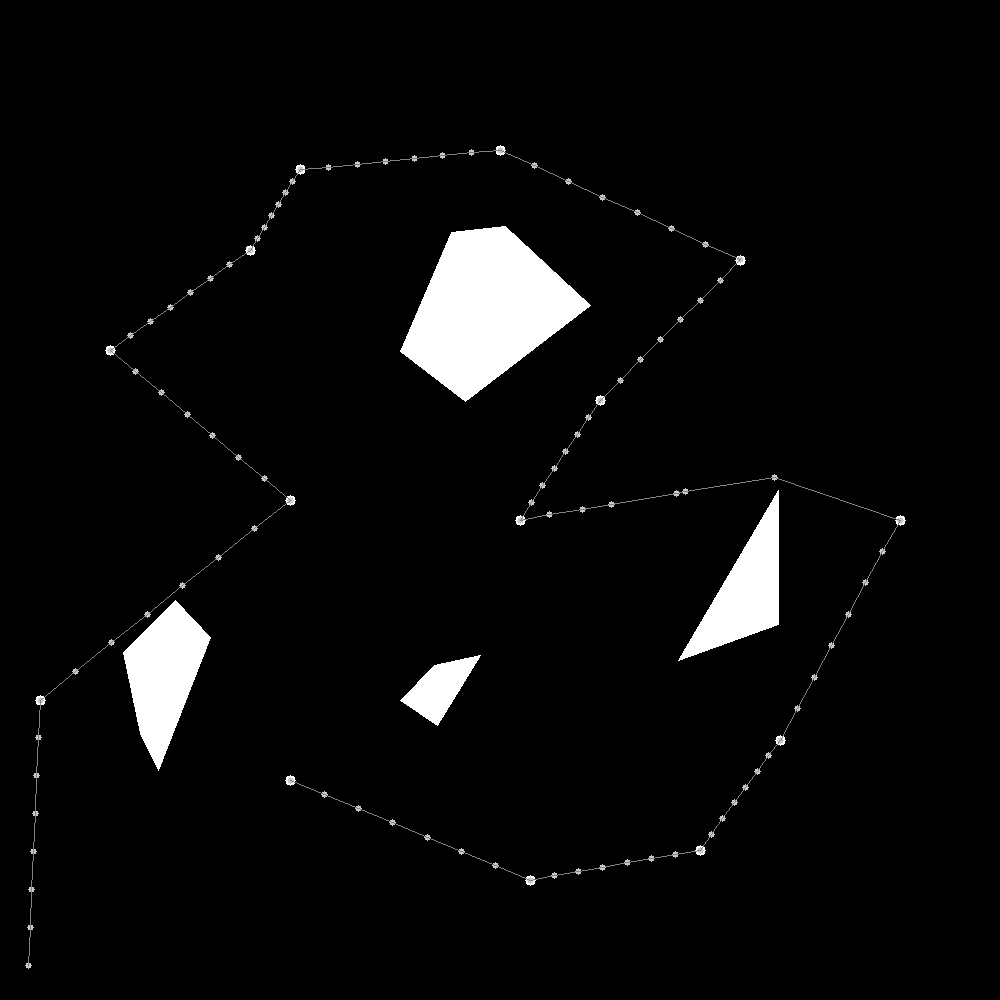
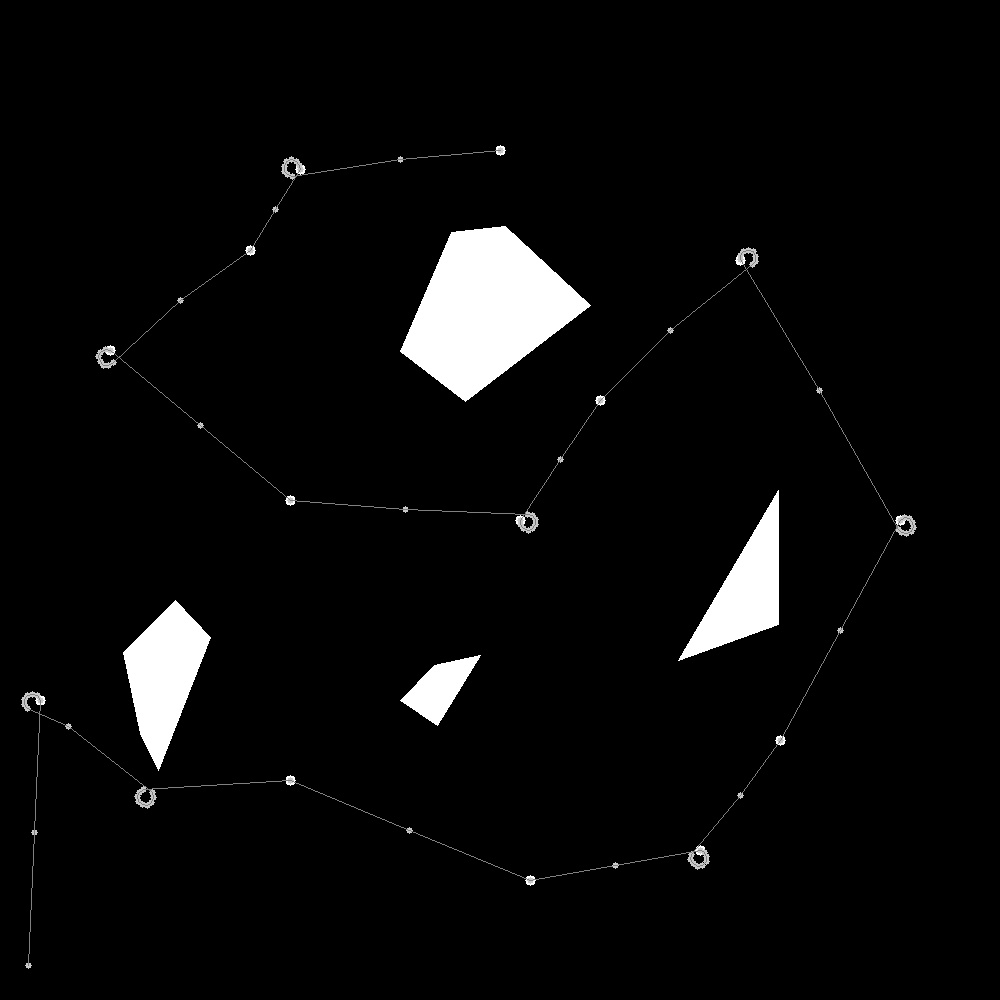
.

diff --git a/solver.py b/solver.py
@@ -1,4 +1,4 @@
-import numpy as np 
+import numpy as np
 import matplotlib.pyplot as plt
 import cv2
 import scipy.optimize as sco
@@ -9,54 +9,53 @@ from python_tsp.exact import solve_tsp_dynamic_programming
 
 
 def visualize(path, ind=None):
-    obstacles = [np.array(  ((1.23,3.47),(1.75,4.00),(2.10,3.63),(1.58,2.30),(1.40,2.67)) ),  
-                          np.array(  ((4.65,5.98),(4.00,6.48),(4.52,7.68),(5.06,7.73),(5.90,6.95)) ),  
-                          np.array(  ((6.78,3.40),(7.78,3.76),(7.78,5.10)) ), 
-                          np.array(  ((4.00,3.00),(4.35,3.35),(4.80,3.45),(4.37,2.75)))  ]
-    rubbishes = np.array((  (0.40,3.00),(2.90,2.20),(1.10,6.50),(2.90,5.00),(3.00,8.30),
-                            (5.20,4.80),(7.40,7.40),(5.30,1.20),(7.80,2.60),(6.00,6.00),
-                            (9.00,4.80),(5.00,8.50),(7.00,1.50),(2.50,7.50)   ))
-    
-    car = np.array([0.57/2, 0.7/2])
+    obstacles = [np.array(((1.23, 3.47), (1.75, 4.00), (2.10, 3.63), (1.58, 2.30), (1.40, 2.67))),
+                 np.array(((4.65, 5.98), (4.00, 6.48), (4.52, 7.68), (5.06, 7.73), (5.90, 6.95))),
+                 np.array(((6.78, 3.40), (7.78, 3.76), (7.78, 5.10))),
+                 np.array(((4.00, 3.00), (4.35, 3.35), (4.80, 3.45), (4.37, 2.75)))]
+    rubbishes = np.array(((0.40, 3.00), (2.90, 2.20), (1.10, 6.50), (2.90, 5.00), (3.00, 8.30),
+                          (5.20, 4.80), (7.40, 7.40), (5.30, 1.20), (7.80, 2.60), (6.00, 6.00),
+                          (9.00, 4.80), (5.00, 8.50), (7.00, 1.50), (2.50, 7.50)))
+
+    car = np.array([0.57 / 2, 0.7 / 2])
     car_width = 0.57
     car_length = 0.7
-    r = np.array([[car[0]-car_width/2, car[1]-car_length/2], 
-                      [car[0]+car_width/2, car[1]-car_length/2], 
-                      [car[0]+car_width/2, car[1]+car_length/2], 
-                      [car[0]-car_width/2, car[1]+car_length/2], ])
-    
-    im = np.zeros((1000,1000), dtype = np.uint8)
+    r = np.array([[car[0] - car_width / 2, car[1] - car_length / 2],
+                  [car[0] + car_width / 2, car[1] - car_length / 2],
+                  [car[0] + car_width / 2, car[1] + car_length / 2],
+                  [car[0] - car_width / 2, car[1] + car_length / 2], ])
+
+    im = np.zeros((1000, 1000), dtype=np.uint8)
     point_obstacles = []
     for i in range(len(obstacles)):
         p = obstacles[i]
-        p[:,0] = p[:,0]
-        p[:,1] = 10 - p[:,1]
+        p[:, 0] = p[:, 0]
+        p[:, 1] = 10 - p[:, 1]
         point_obstacles.append(p)
     rr = r.copy()
-    rr[:,0] = r[:,0]
-    rr[:,1] = 10 - r[:,1]
+    rr[:, 0] = r[:, 0]
+    rr[:, 1] = 10 - r[:, 1]
     for i in range(len(point_obstacles)):
-        cv2.fillConvexPoly(im, (point_obstacles[i]*100).astype('int'), 255)
+        cv2.fillConvexPoly(im, (point_obstacles[i] * 100).astype('int'), 255)
 
     for i in range(len(rubbishes)):
-        cv2.circle(im, (int(rubbishes[i][0]*100), int(1000 - rubbishes[i][1]*100)), 5, 255, -1)
-    
+        cv2.circle(im, (int(rubbishes[i][0] * 100), int(1000 - rubbishes[i][1] * 100)), 5, 255, -1)
+
     pp = path
-    pp[:,1] = 10 - pp[:,1]
-    
+    pp[:, 1] = 10 - pp[:, 1]
+
     for i in range(len(pp)):
         if ind is not None and i in ind:
-            cv2.circle(im, (int(pp[i][0]*100), int(pp[i][1]*100)), 20, 200, -1)
+            cv2.circle(im, (int(pp[i][0] * 100), int(pp[i][1] * 100)), 20, 200, -1)
         else:
-            cv2.circle(im, (int(pp[i][0]*100), int(pp[i][1]*100)), 3, 200, -1)
-        
+            cv2.circle(im, (int(pp[i][0] * 100), int(pp[i][1] * 100)), 3, 200, -1)
 
-    cv2.polylines(im, np.array([(pp*100)]).astype('int'), False, 128, 1)
+    cv2.polylines(im, np.array([(pp * 100)]).astype('int'), False, 128, 1)
     return im
 
 
 def theta(line1, line2):
-    k = np.dot(line1, line2)/np.sqrt(np.sum(line1**2))/np.sqrt(np.sum(line2**2))
+    k = np.dot(line1, line2) / np.sqrt(np.sum(line1 ** 2)) / np.sqrt(np.sum(line2 ** 2))
     k = min(k, 1)
     k = max(k, -1)
     return np.arccos(k)
@@ -65,26 +64,27 @@ def theta(line1, line2):
 def theta_adjust(path):
     ss = path.shape[0]
     ind = []
-    for i in range(1, ss-1):
-        if theta(path[i]-path[i-1], path[i+1]-path[i]) > 0.2*np.pi:
+    for i in range(1, ss - 1):
+        if theta(path[i] - path[i - 1], path[i + 1] - path[i]) > 0.2 * np.pi:
             ind.append(i)
     mpath = []
     for i in ind:
-        line = path[i+1]-path[i]
-        lineb = path[i]-path[i-1]
+        line = path[i + 1] - path[i]
+        lineb = path[i] - path[i - 1]
         direction = lineb[0] * line[1] - lineb[1] * line[0]
-        direction = direction/np.abs(direction)
+        direction = direction / np.abs(direction)
         thr = 100
         impath = []
         point = path[i]
-        while thr > 0.2*np.pi:
-            linep = np.array([lineb[0]*np.cos(direction*0.2*np.pi) + lineb[1]*np.sin(direction*0.2*np.pi), -lineb[0]*np.sin(direction*0.2*np.pi) + lineb[1]*np.cos(direction*0.2*np.pi)])
-            linep = linep/np.sqrt(np.sum(linep**2))
-            point = point + 0.05*linep
+        while thr > 0.2 * np.pi:
+            linep = np.array([lineb[0] * np.cos(direction * 0.2 * np.pi) + lineb[1] * np.sin(direction * 0.2 * np.pi),
+                              -lineb[0] * np.sin(direction * 0.2 * np.pi) + lineb[1] * np.cos(direction * 0.2 * np.pi)])
+            linep = linep / np.sqrt(np.sum(linep ** 2))
+            point = point + 0.05 * linep
             impath.append(point)
-            linep2 = path[i+1] - point
+            linep2 = path[i + 1] - point
             thr = theta(linep, linep2)
-            #print(thr)
+            # print(thr)
             lineb = linep
         mpath.append(impath)
     all_path = []
@@ -100,65 +100,64 @@ def theta_adjust(path):
 class Solver(nn.Module):
     def __init__(self, starting, ending, point_num):
         super(Solver, self).__init__()
-        self.obstacles = [torch.tensor(  ((1.23,3.47),(1.75,4.00),(2.10,3.63),(1.58,2.30),(1.40,2.67)) ),  
-                          torch.tensor(  ((4.65,5.98),(4.00,6.48),(4.52,7.68),(5.06,7.73),(5.90,6.95)) ),  
-                          torch.tensor(  ((6.78,3.40),(7.78,5.10),(7.78,3.76)) ),
-                          torch.tensor(  ((4.00,3.00),(4.35,3.35),(4.80,3.45),(4.37,2.75)))  ]
+        self.obstacles = [torch.tensor(((1.23, 3.47), (1.75, 4.00), (2.10, 3.63), (1.58, 2.30), (1.40, 2.67))),
+                          torch.tensor(((4.65, 5.98), (4.00, 6.48), (4.52, 7.68), (5.06, 7.73), (5.90, 6.95))),
+                          torch.tensor(((6.78, 3.40), (7.78, 5.10), (7.78, 3.76))),
+                          torch.tensor(((4.00, 3.00), (4.35, 3.35), (4.80, 3.45), (4.37, 2.75)))]
         self.starting = starting
         self.ending = ending
 
         line = ending - starting
         self.point_num = point_num
-        path = np.zeros((self.point_num,2))
-        for i in range(1,self.point_num+1):
-            path[i-1,:] = starting + i/self.point_num * line
-        
+        path = np.zeros((self.point_num, 2))
+        for i in range(1, self.point_num + 1):
+            path[i - 1, :] = starting + i / self.point_num * line
+
         self.starting = torch.tensor(self.starting)
         self.ending = torch.tensor(self.ending)
-        self.path =  nn.Parameter(torch.tensor(path[0:-1],  requires_grad=True))
-        
+        self.path = nn.Parameter(torch.tensor(path[0:-1], requires_grad=True))
 
-    
     def rectangle(self, p):
-        r = torch.tensor([[p[0]-self.car_width/2, p[1]-self.car_length/2], 
-                      [p[0]+self.car_width/2, p[1]-self.car_length/2], 
-                      [p[0]+self.car_width/2, p[1]+self.car_length/2], 
-                      [p[0]-self.car_width/2, p[1]+self.car_length/2], 
-                    ])
+        r = torch.tensor([[p[0] - self.car_width / 2, p[1] - self.car_length / 2],
+                          [p[0] + self.car_width / 2, p[1] - self.car_length / 2],
+                          [p[0] + self.car_width / 2, p[1] + self.car_length / 2],
+                          [p[0] - self.car_width / 2, p[1] + self.car_length / 2],
+                          ])
         return r
 
-
     def collision_wzy(self):
-        path = torch.cat([self.starting[np.newaxis,:], self.path, self.ending[np.newaxis,:]], 0)
+        path = torch.cat([self.starting[np.newaxis, :], self.path, self.ending[np.newaxis, :]], 0)
         p = path[0:-1]
         r = path[1:] - path[0:-1]
         colllist = []
-        
+
         for i in range(len(self.obstacles)):
             ob = self.obstacles[i]
             sob = ob.shape[0]
-            q = ob[:,:]
+            q = ob[:, :]
             s = ob[list(range(1, sob)) + [0]] - q
-            qp = (q[np.newaxis,:,:]-p[:,np.newaxis,:])
-            t = (qp[:,:,0] * s[np.newaxis,:,1] - qp[:,:,1] * s[np.newaxis,:,0]) / ( torch.transpose((r[np.newaxis,:,0] * s[:,np.newaxis,1] - r[np.newaxis,:,1] * s[:,np.newaxis,0]), 1, 0) + 1e-8)
-            u = (qp[:,:,0] * r[:,np.newaxis,1] - qp[:,:,1] * r[:,np.newaxis,0]) / ( torch.transpose((r[np.newaxis,:,0] * s[:,np.newaxis,1] - r[np.newaxis,:,1] * s[:,np.newaxis,0]), 1, 0) + 1e-8)
-            collt = 1 - (t/torch.abs(t) * (t-1)/torch.abs(t-1) + 1) / 2
-            collu = 1 - (u/torch.abs(u) * (u-1)/torch.abs(u-1) + 1)  / 2
+            qp = (q[np.newaxis, :, :] - p[:, np.newaxis, :])
+            t = (qp[:, :, 0] * s[np.newaxis, :, 1] - qp[:, :, 1] * s[np.newaxis, :, 0]) / (torch.transpose(
+                (r[np.newaxis, :, 0] * s[:, np.newaxis, 1] - r[np.newaxis, :, 1] * s[:, np.newaxis, 0]), 1, 0) + 1e-8)
+            u = (qp[:, :, 0] * r[:, np.newaxis, 1] - qp[:, :, 1] * r[:, np.newaxis, 0]) / (torch.transpose(
+                (r[np.newaxis, :, 0] * s[:, np.newaxis, 1] - r[np.newaxis, :, 1] * s[:, np.newaxis, 0]), 1, 0) + 1e-8)
+            collt = 1 - (t / torch.abs(t) * (t - 1) / torch.abs(t - 1) + 1) / 2
+            collu = 1 - (u / torch.abs(u) * (u - 1) / torch.abs(u - 1) + 1) / 2
             coll = collt * collu
             colllist.append(coll)
-        
+
         colllist = torch.cat(colllist, 1)
-        return torch.sum(colllist) 
-    
+        return torch.sum(colllist)
+
     def collision_fxy(self):
-        path = torch.cat([self.starting[np.newaxis,:], self.path, self.ending[np.newaxis,:]], 0)
+        path = torch.cat([self.starting[np.newaxis, :], self.path, self.ending[np.newaxis, :]], 0)
         p = path[0:-1]
         r = path[1:] - path[0:-1]
-        sample=path[1:]
-        sample_num=30
-        for i in range(sample_num-1):
-            sample_temp = p + r * (i+1) / sample_num
-            sample=torch.cat((sample, sample_temp),dim=0)
+        sample = path[1:]
+        sample_num = 30
+        for i in range(sample_num - 1):
+            sample_temp = p + r * (i + 1) / sample_num
+            sample = torch.cat((sample, sample_temp), dim=0)
 
         coll = 0
 
@@ -172,68 +171,83 @@ class Solver(nn.Module):
             di_norm = torch.norm(di, dim=1, keepdim=True)
             di = di / di_norm
 
-            sample_q=-(q[np.newaxis, :, :] - sample[:, np.newaxis, :])
-            #t=sample_q*di[np.newaxis, :, :].repeat(sample_num*99,1,1)
-            #print(sample_q.shape, di.shape)
-            temp=torch.relu(torch.sum((sample_q*di[np.newaxis, :, :].repeat(sample_num*self.point_num,1,1)),dim=2)+0.1)
-            co=torch.prod(temp,dim=1)
+            sample_q = -(q[np.newaxis, :, :] - sample[:, np.newaxis, :])
+            # t=sample_q*di[np.newaxis, :, :].repeat(sample_num*99,1,1)
+            # print(sample_q.shape, di.shape)
+            temp = torch.relu(
+                torch.sum((sample_q * di[np.newaxis, :, :].repeat(sample_num * self.point_num, 1, 1)), dim=2) + 0.1)
+            co = torch.prod(temp, dim=1)
             coll += torch.sum(co)
         return coll
-    
+
     def lpath(self):
-        path = torch.cat([self.starting[np.newaxis,:], self.path, self.ending[np.newaxis,:]], 0)
+        path = torch.cat([self.starting[np.newaxis, :], self.path, self.ending[np.newaxis, :]], 0)
         xp = path[1:] - path[0:-1]
-        ll = torch.sum(torch.sqrt(1e-6 + torch.sum(xp**2, 1)))
+        ll = torch.sum(torch.sqrt(1e-6 + torch.sum(xp ** 2, 1)))
         return ll
-    
 
 
-rubbish = np.array((  (0.57/2,0.7/2), (0.40,3.00),(2.90,2.20),(1.10,6.50),(2.90,5.00),(3.00,8.30),
-                           (5.20,4.80),(7.40,7.40),(5.30,1.20),(7.80,2.60),(6.00,6.00),
-                           (9.00,4.80),(5.00,8.50),(7.00,1.50),(2.50,7.50)   ))
+rubbish = np.array(((0.57 / 2, 0.7 / 2), (0.40, 3.00), (2.90, 2.20), (1.10, 6.50), (2.90, 5.00), (3.00, 8.30),
+                    (5.20, 4.80), (7.40, 7.40), (5.30, 1.20), (7.80, 2.60), (6.00, 6.00),
+                    (9.00, 4.80), (5.00, 8.50), (7.00, 1.50), (2.50, 7.50)))
 
-
-dis = rubbish[:,np.newaxis,:] - rubbish[np.newaxis,:,:]
-dis = np.sqrt(np.sum(dis**2, 2))
+#dis = rubbish[:, np.newaxis, :] - rubbish[np.newaxis, :, :]
+dis = np.sqrt(np.sum(dis ** 2, 2))
+dis = np.array((  (0,2.6525,3.2032,6.2038,5.3525,8.4074,6.6302,10.0163,5.0865,7.8446,8.0364,9.8459,9.4311,6.8128,7.4854),
+                  (0,0     ,2.6992,3.5693,3.2016,5.9034,5.259 ,8.277,5.2561,7.64,6.3978,10.4647,7.1701,6.8737,4.9659),
+                  (0,0,0,4.6615,2.8,6.1008,3.4713,6.8768,2.6,4.9163,4.9041,7.6729,6.8632,4.1593,5.3153),
+                  (0,0,0,0,2.5311,2.6173,4.4385,6.7079,6.7624,7.7524,4.9389,8.082,4.3829,7.7337,1.7205),
+                  (0,0,0,0,0,3.3015,2.3087,5.1,4.4954,5.4562,3.25,6.155,4.0882,5.3907,2.5318),
+                  (0,0,0,0,0,0,4.1431,4.4911,7.4632,7.5929,4.3155,7.0741,2.01,7.8905,0.9434),
+                  (0,0,0,0,0,0,0,3.4059,3.6014,3.4076,1.4422,3.8849,4.1074,3.759,3.8184),
+                  (0,0,0,0,0,0,0,0,6.456,4.8354,1.9799,3.0529,2.6401,5.9701,4.9391),
+                  (0,0,0,0,0,0,0,0,0,2.8653,4.8508,5.1624,7.6247,1.7263,6.8942),
+                  (0,0,0,0,0,0,0,0,0,0,4.2108,2.506,7.3187,1.3601,7.2299),
+                  (0,0,0,0,0,0,0,0,0,0,0,3.2311,2.7549,4.6098,4.0197),
+                  (0,0,0,0,0,0,0,0,0,0,0,0,5.4489,3.8588,7.2407),
+                  (0,0,0,0,0,0,0,0,0,0,0,0,0,7.4013,2.6926),
+                  (0,0,0,0,0,0,0,0,0,0,0,0,0,0,7.5),
+                  (0,0,0,0,0,0,0,0,0,0,0,0,0,0,0)))
+dis = dis+dis.T
 permutation, distance = solve_tsp_dynamic_programming(dis)
 points = rubbish[np.array(permutation)]
 
-
-
-path = np.zeros((0,2))
+path = np.zeros((0, 2))
 
 for i in range(len(rubbish) - 1):
-    o_solver = Solver(points[i], points[i+1], 2)
+    o_solver = Solver(points[i], points[i + 1], 2)
     if o_solver.collision_fxy().item() > 0:
-        solver = Solver(points[i], points[i+1], 3)
-        opt2 =  torch.optim.Adam(solver.parameters(), lr=0.5)
+        solver = Solver(points[i], points[i + 1], 3)
+        opt2 = torch.optim.Adam(solver.parameters(), lr=0.5)
         ite = 0
         while True:
             y = solver.lpath() + 1e3 * solver.collision_fxy()
-            if ite%100 == 0:
+            if ite % 100 == 0:
                 print(ite, y.item(), 1e3 * solver.collision_fxy().item())
             opt2.zero_grad()
             y.backward()
             opt2.step()
             ite = ite + 1
-            if (ite+1)%1000 == 0:
+            if (ite + 1) % 1000 == 0:
                 opt2.param_groups[0]['lr'] *= 0.5
             if ite > 2501 and solver.collision_fxy().item() == 0:
                 break
         pp = solver.path.detach().numpy()
     else:
         pp = o_solver.path.detach().numpy()
-    
-    path = np.concatenate([path, points[i][np.newaxis,:], pp])
 
-path = np.concatenate([path, points[-1][np.newaxis,:]])
+    path = np.concatenate([path, points[i][np.newaxis, :], pp])
 
+path = np.concatenate([path, points[-1][np.newaxis, :]])
 
 all_path = theta_adjust(path)
+
+delta_path = all_path[1:]-all_path[0:-1]
+
 print(all_path.shape)
 im = visualize(all_path)
 
-all_dis = np.sum(all_path**2, 1)
+all_dis = np.sum(delta_path ** 2, 1)
 all_dis = np.sqrt(all_dis)
 all_dis = np.sum(all_dis)
 print(all_dis)
